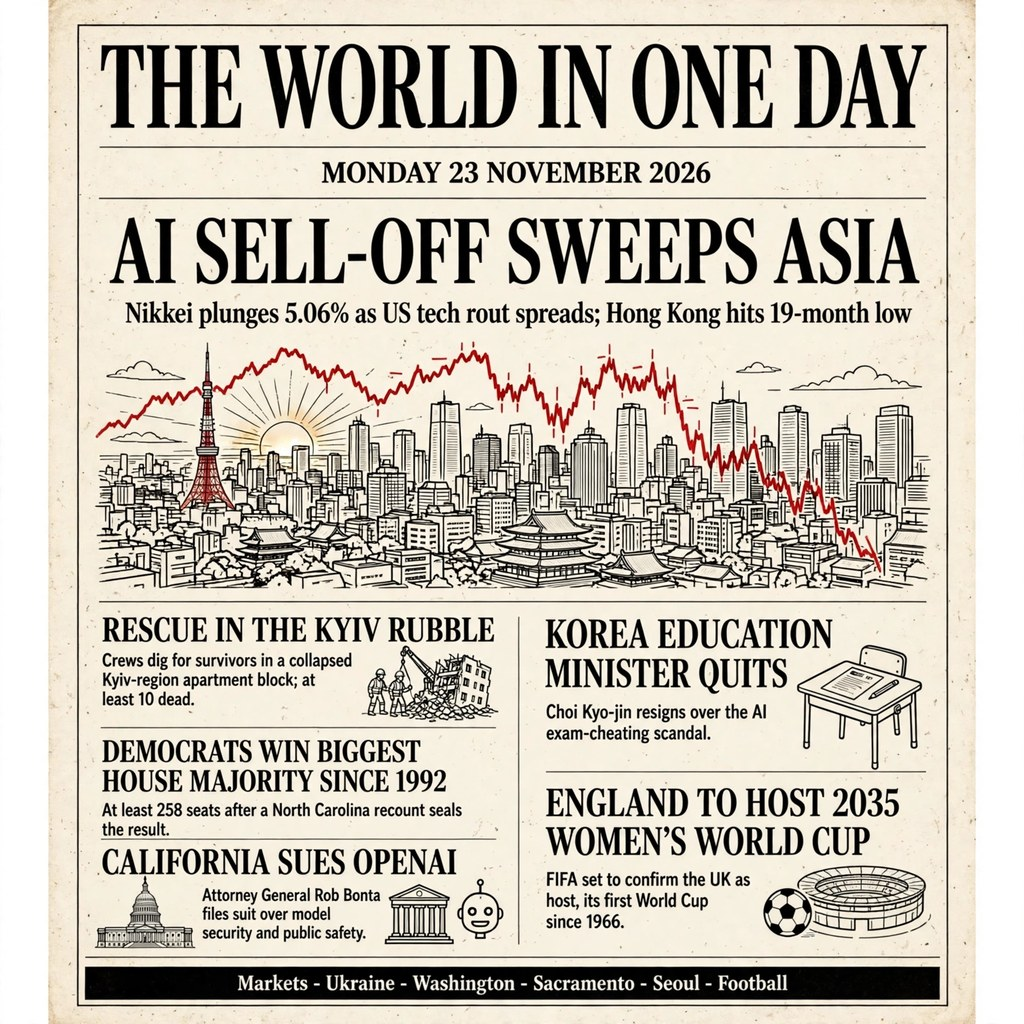
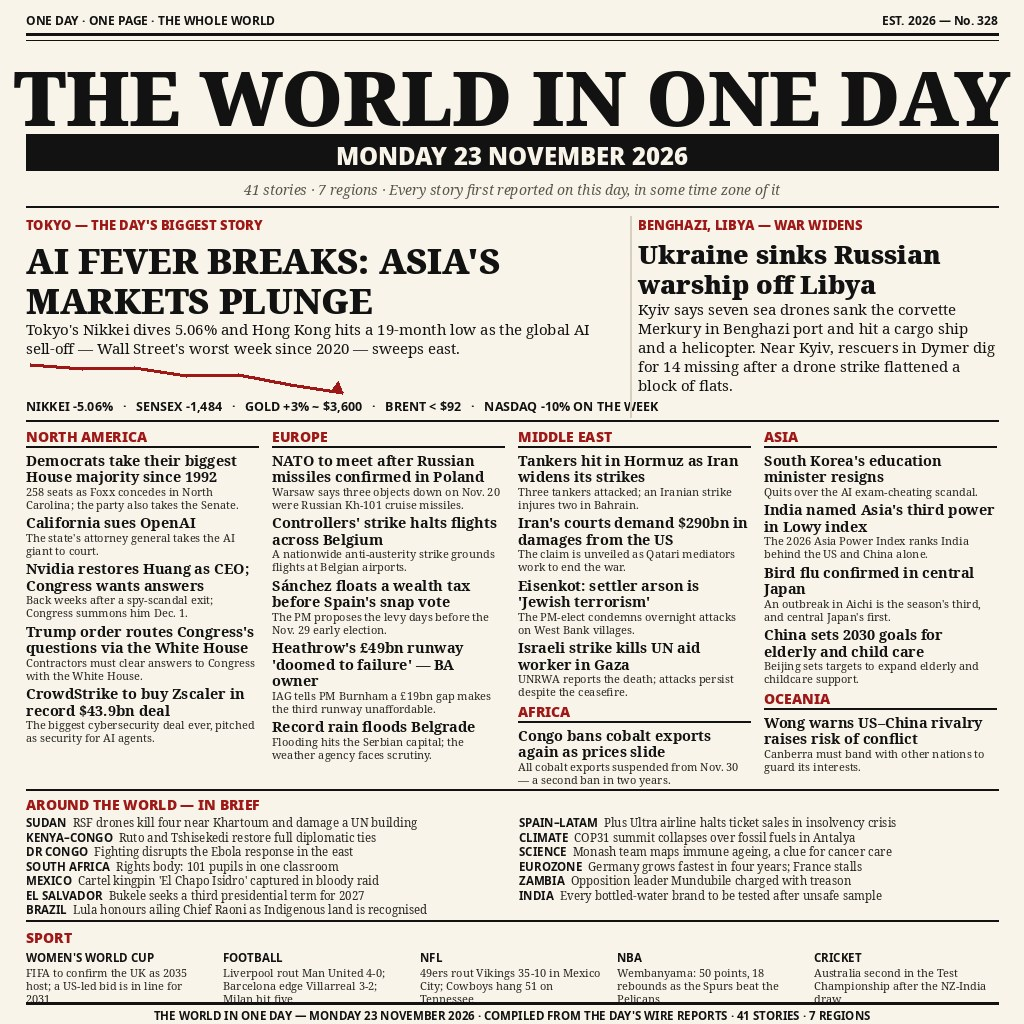
Rebuild front page as a dense broadsheet: 41 stories, 7 regions
Replace the 6-story page with a full newspaper front page for Monday
23 November 2026: Asia AI sell-off lead (Nikkei -5.06%), Ukraine sinks
a Russian warship off Libya, and reported stories from North America,
Europe, the Middle East, Asia, Africa, Latin America and Oceania,
plus in-brief and sport strips. entry.png is JPEG bytes, 1024x1024,
345,048 bytes. main.ts gains a size/signature guard for the gate's
limits.

diff --git a/main.ts b/main.ts
@@ -1,19 +1,37 @@
 // Entry for make.fun's news-image-20261123: a single front-page image that
-// sums up the world news of Monday 23 November 2026. The picture itself is
-// the deliverable and ships in this repository as entry.png (JPEG bytes
-// under a .png name, which the gate allows because it tells PNG from JPEG
-// by the file's first bytes). All this program does is place those exact
-// bytes at /output/entry.png, so the grader's two runs produce the same
-// file every time. Node 22, standard library only, no network.
+// sums up the world news of Monday 23 November 2026. This revision rebuilds
+// the page as a dense broadsheet — 41 stories across 7 regions (North
+// America, Europe, the Middle East, Asia, Africa, Latin America and
+// Oceania) plus sport — because the blind pairwise judge rewards the page
+// that sums up the whole day, and six stories cannot do that. The picture
+// itself is the deliverable and ships in this repository as entry.png
+// (JPEG bytes under a .png name, which the gate allows because it tells
+// PNG from JPEG by the file's first bytes). All this program does is place
+// those exact bytes at /output/entry.png, so the grader's two runs produce
+// the same file every time. Node 22, standard library only, no network.
 //
 // Run locally with:  mkdir -p out && MAKEFUN_OUTPUT_DIR=out node main.ts
 
-import { copyFileSync, mkdirSync } from 'node:fs';
+import { copyFileSync, mkdirSync, readFileSync } from 'node:fs';
 import { dirname, join } from 'node:path';
 import { fileURLToPath } from 'node:url';
 
 const repoDir = dirname(fileURLToPath(import.meta.url));
 const outputDir = process.env.MAKEFUN_OUTPUT_DIR ?? '/output';
+const sourcePath = join(repoDir, 'entry.png');
+
+// Guard the gate's own limits before copying: the file must be at most
+// 1 MiB and carry a PNG or JPEG signature (the gate tells the two apart
+// by these first bytes). Fail loudly rather than ship an invalid entry.
+const bytes = readFileSync(sourcePath);
+if (bytes.length > 1_048_576) {
+  throw new Error(`entry.png is ${bytes.length} bytes, over the 1 MiB cap`);
+}
+const isPng = bytes.length > 4 && bytes[0] === 0x89 && bytes[1] === 0x50;
+const isJpeg = bytes.length > 2 && bytes[0] === 0xff && bytes[1] === 0xd8;
+if (!isPng && !isJpeg) {
+  throw new Error('entry.png carries neither a PNG nor a JPEG signature');
+}
 
 // The grader mounts a writable /output, but a local MAKEFUN_OUTPUT_DIR may
 // name a folder that does not exist yet; create it either way so the copy
